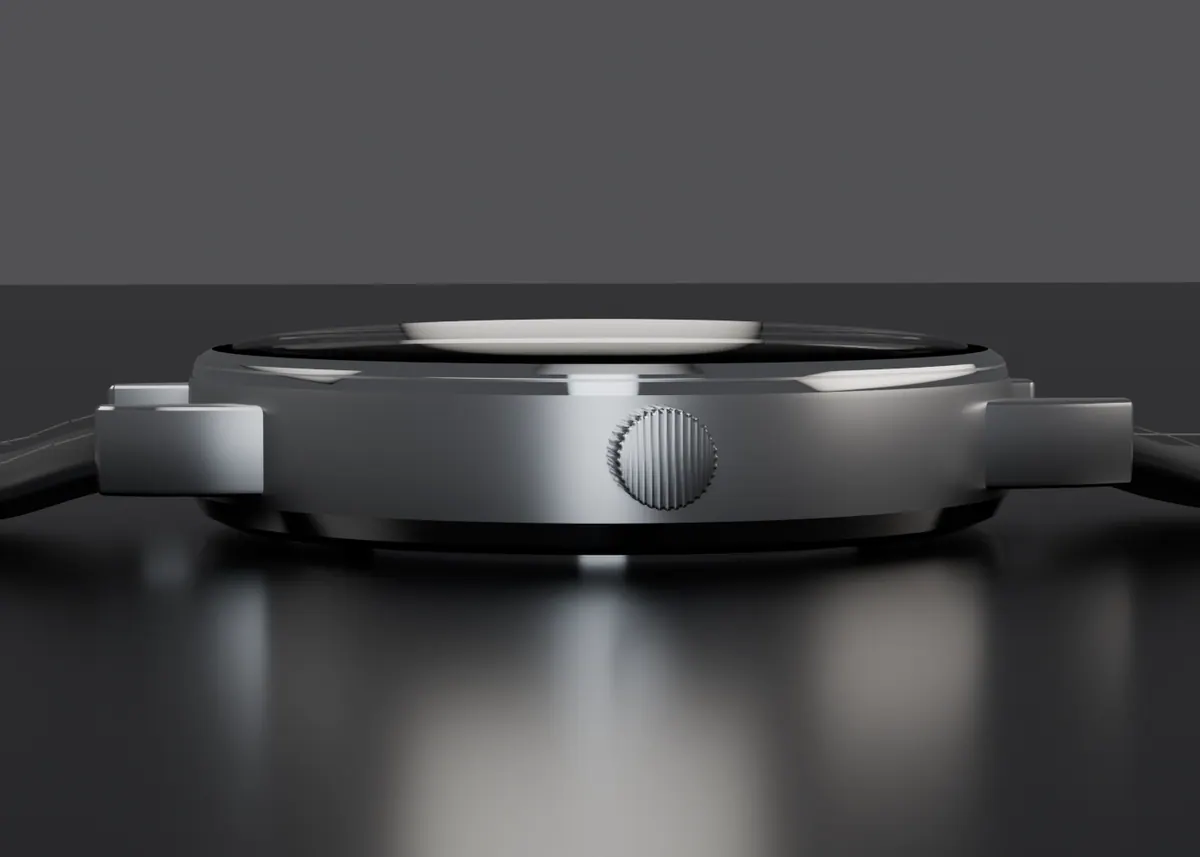
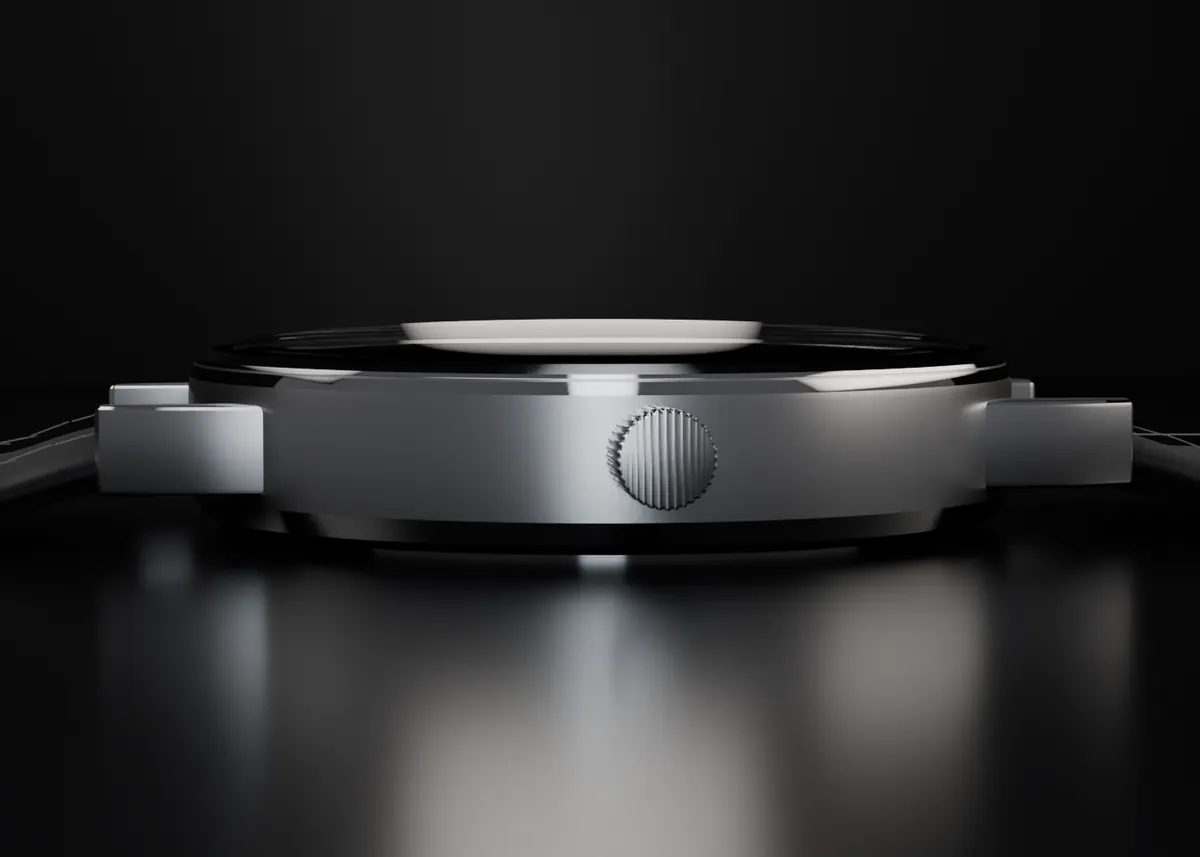
calenberg: Überschriften, Spezifikationen, Lupe, Konfigurator-Vorschau, Initialen, Seitenansicht; pagecheck prüft Wortbrüche
Claude-Session: https://claude.ai/code/session_01AA261xBDyaaFXDejpkWEwb

diff --git a/uhren/watch.py b/uhren/watch.py
@@ -211,6 +211,10 @@ except Exception: pass
 w_.node_tree.nodes.clear(); _bg = w_.node_tree.nodes.new('ShaderNodeBackground'); _bg.inputs[0].default_value = (0.10, 0.10, 0.105, 1)
 _wo = w_.node_tree.nodes.new('ShaderNodeOutputWorld'); w_.node_tree.links.new(_bg.outputs[0], _wo.inputs[0])
 
+backdrop = bpy.data.meshes.new('bd'); _b = bmesh.new(); bmesh.ops.create_grid(_b, x_segments=1, y_segments=1, size=500); _b.to_mesh(backdrop); _b.free()
+bd = link(bpy.data.objects.new('backdrop', backdrop)); bd.rotation_euler = (0, math.pi / 2, 0); bd.location = (-140, 0, 0)
+_bm = new_mat('backdrop')[0]; _bm.node_tree.nodes['Principled BSDF'].inputs['Base Color'].default_value = (0.01, 0.01, 0.012, 1); _bm.node_tree.nodes['Principled BSDF'].inputs['Roughness'].default_value = 0.6
+backdrop.materials.append(_bm); bd.hide_render = True
 # ---------------- variants ----------------
 def variant(case, dial_id, band):
     cm, cp = CASE[case]
@@ -251,7 +255,7 @@ for sh in SHOTS:
     base = sh.split('-')[0]
     if base == 'cfg': _, c_, d_, b_ = sh.split('-'); variant(c_, d_, b_)
     else: variant('stahl', 'silber', 'kalb')
-    c = SHOTCAM[base]
+    c = SHOTCAM[base]; bd.hide_render = (base != 'side')
     camo.location = c['loc']; camo.rotation_euler = (Vector(c['tgt']) - Vector(c['loc'])).to_track_quat('-Z', 'Y').to_euler(); cam.lens = c['lens']
     S.render.resolution_x, S.render.resolution_y = c['res']; S.render.resolution_percentage = SC
     S.render.filepath = os.path.join(OUT, sh + '.png'); t0 = time.time()

diff --git a/calenberg/README.md b/calenberg/README.md
@@ -99,3 +99,12 @@ Die Uhr (конфигуратор, на ПК липкая карточка с в
 - Условия в «Что получает клиент» и FAQ (20 % аванс, 690 € сервис, 5 лет гарантии) вымышлены, помечены как демо.
 
 - Заголовки h1–h3: Archivo 800, курсив (wdth-italic), стретч 108 %. Кнопки завода нет: механизм в первом экране `#werk` крутится сам (reserve = FULL), пока не начат скролл; при `prefers-reduced-motion` стоит кадром.
+
+## 18.11.2026: Korrekturen nach Test auf dem Telefon
+- `tools/pagecheck.mjs` prüft jetzt zusätzlich: Wörter, die nicht in ihre Box passen (würden mitten im Wort brechen), und h1/h2 mit mehr als 3 Zeilen. Vorher gab es diese Prüfung nicht.
+- Überschriften kleiner und mit `hyphens:auto`; Wasserdicht-Zeile gekürzt.
+- Lupe: Glas darf oben und unten über den Bildrand hinausragen (Bild in `.lupe__bild` geklippt, `.lupe` nur seitlich).
+- Konfigurator mobil: Vorschau im Fluss (6:5, `cover`, keine schwarzen Balken); unten klebt die Summenleiste mit Mini-Vorschau, Auswahl und Summe. Desktop: Vorschau + Summe rechts sticky.
+- Initialen: nur noch Eingabe + «✓ Übernommen», keine Plakette.
+- Block «Das Werk»: Überschrift «So tickt die Eins von innen.» (kein Aufzug-Knopf mehr).
+- Seitenansicht neu gerendert auf dunklem Hintergrund.
